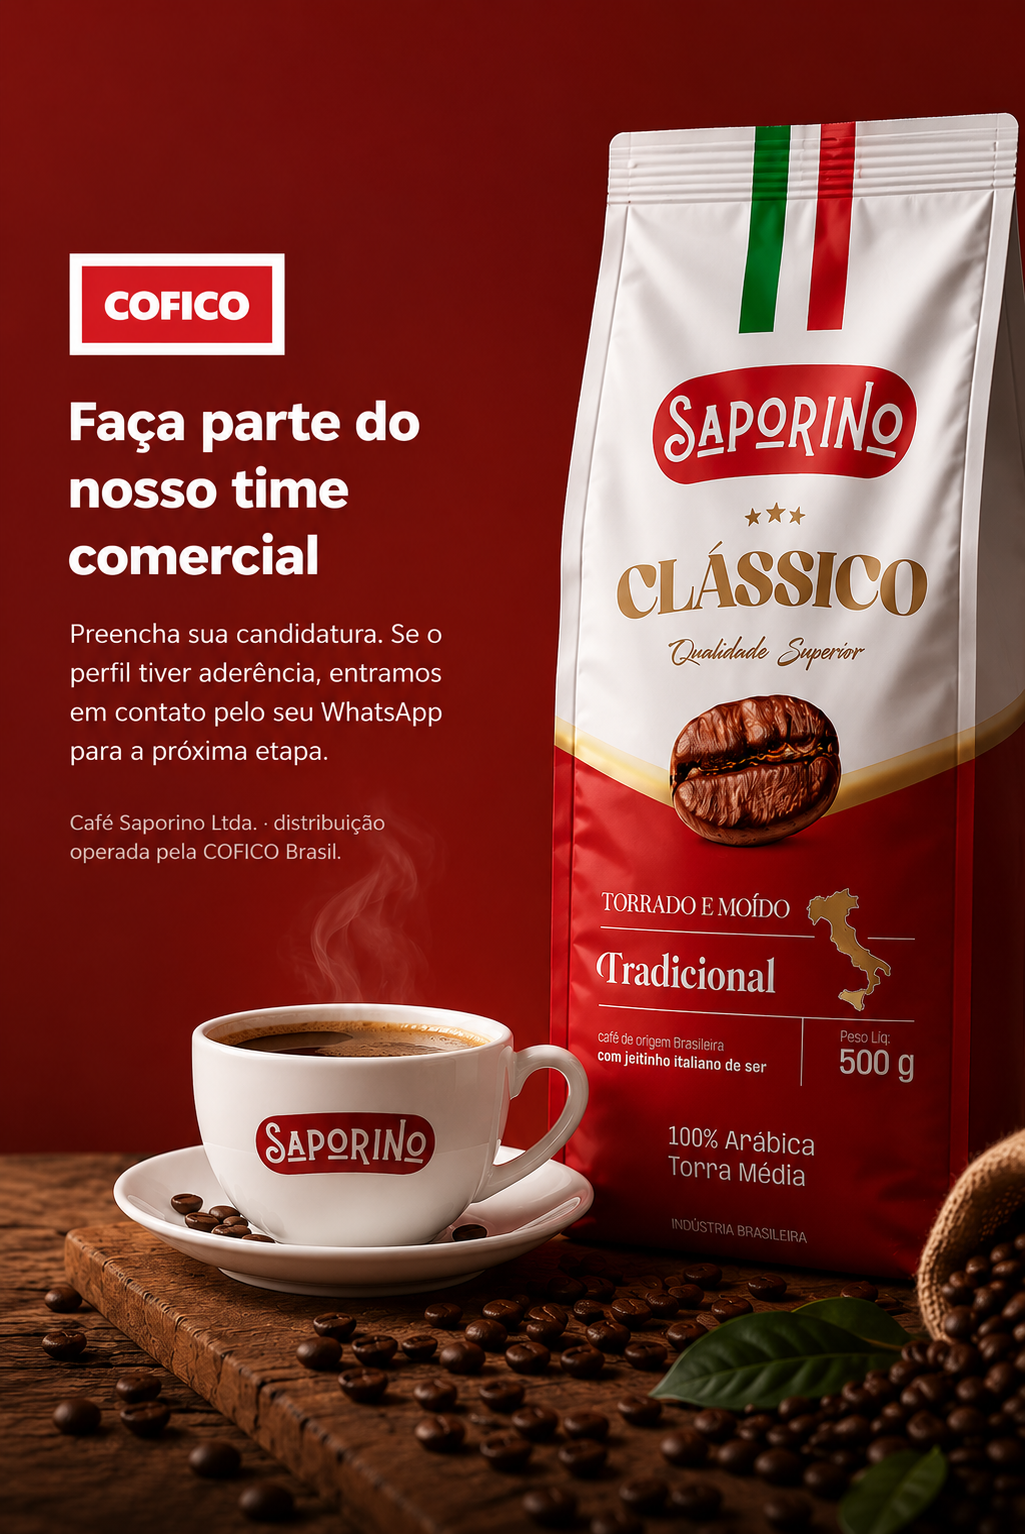
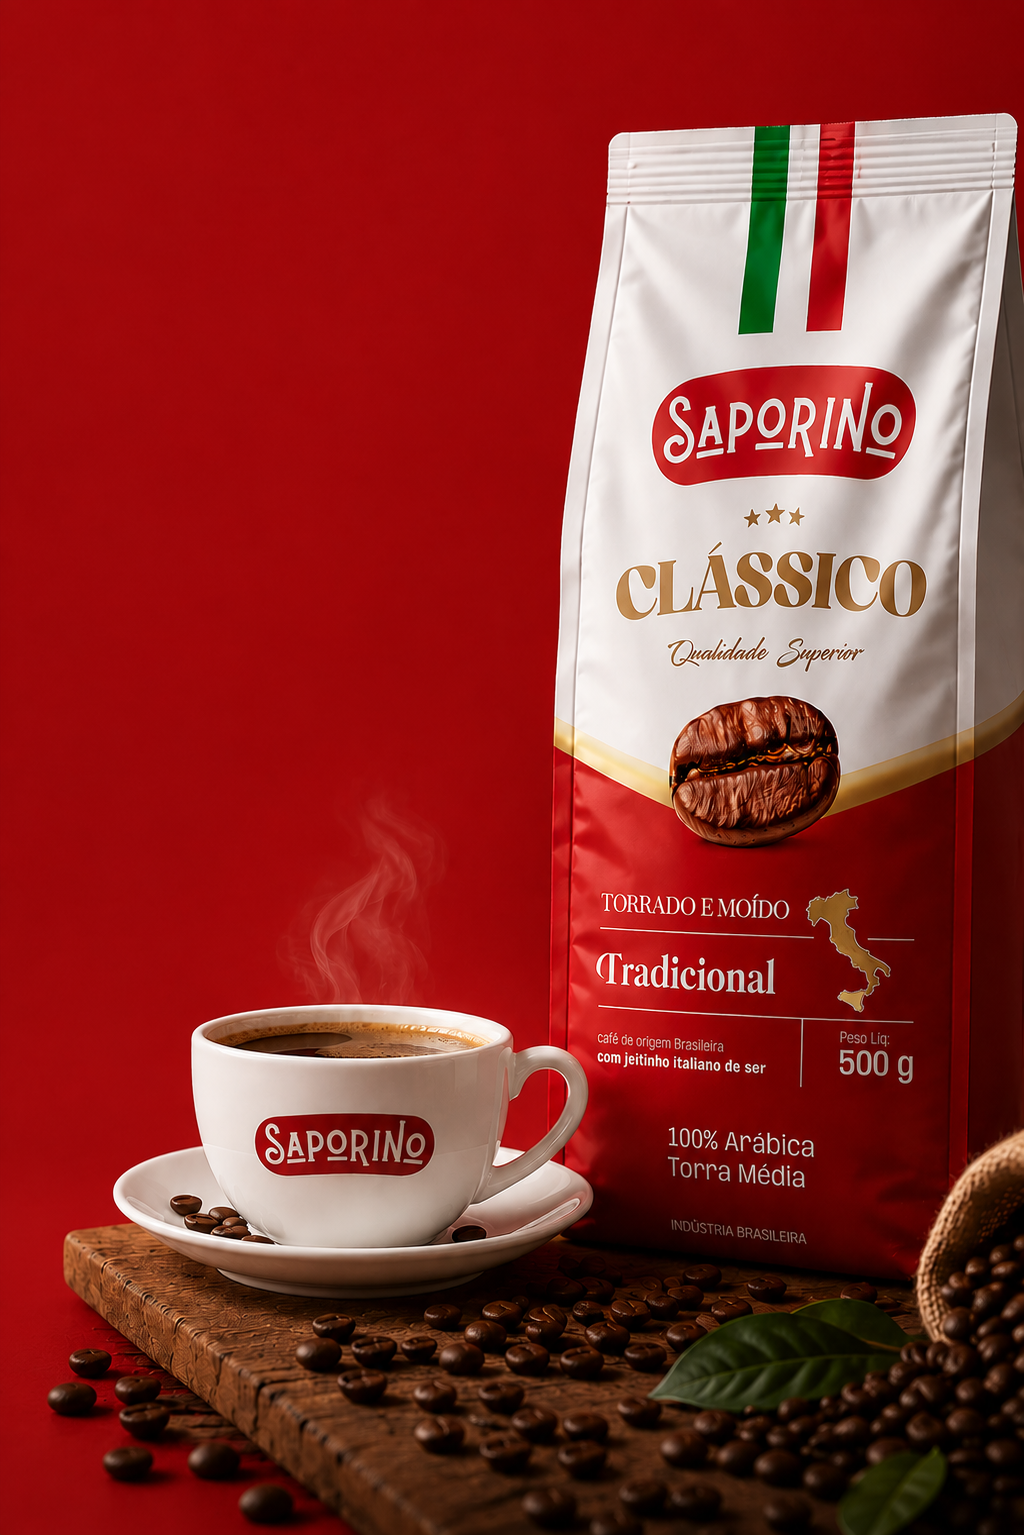
style(trabalhe-conosco): padroniza TUDO no token cofico-ink (fim do circo de vermelhos); tira selo do painel; foto de cafe limpa + texto por cima; token cofico-dark p/ hover

diff --git a/src/pages/PolicyPages.tsx b/src/pages/PolicyPages.tsx
@@ -708,7 +708,7 @@ export const CareersPage = () => {
         <p className="mt-4 max-w-2xl text-lg text-gray-600">
           Representação comercial autônoma no Estado de São Paulo, começando pela linha <strong className="text-gray-900">Café Saporino</strong>. Você atende o ponto de venda — a gente cuida da estrutura, do sistema e da logística.
         </p>
-        <a href="#candidatura" className="mt-7 inline-block rounded-full bg-cofico-ink px-8 py-3 font-semibold text-white transition-colors hover:bg-[#b81c1c]">Quero me candidatar</a>
+        <a href="#candidatura" className="mt-7 inline-block rounded-full bg-cofico-ink px-8 py-3 font-semibold text-white transition-colors hover:bg-cofico-dark">Quero me candidatar</a>
 
         <RoleMarquee />
 
@@ -719,13 +719,13 @@ export const CareersPage = () => {
           {VAGAS.map(v => (
             <div key={v.titulo} className="rounded-2xl border border-gray-200 p-6">
               <h3 className="text-lg font-bold text-gray-900">{v.titulo}</h3>
-              <p className="mt-0.5 text-sm font-semibold text-[#8B2214]">{v.resumo}</p>
+              <p className="mt-0.5 text-sm font-semibold text-cofico-ink">{v.resumo}</p>
               <p className="mt-3 text-sm leading-relaxed text-gray-600">{v.desc}</p>
               <p className="mt-4 text-xs font-semibold uppercase tracking-wide text-gray-400">Requisitos</p>
               <ul className="mt-2 space-y-1.5 text-sm text-gray-700">
-                {v.req.map(r => <li key={r} className="flex gap-2"><Check className="mt-0.5 h-4 w-4 flex-shrink-0 text-[#8B2214]" />{r}</li>)}
+                {v.req.map(r => <li key={r} className="flex gap-2"><Check className="mt-0.5 h-4 w-4 flex-shrink-0 text-cofico-ink" />{r}</li>)}
               </ul>
-              <a href="#candidatura" className="mt-5 inline-block text-sm font-semibold text-[#8B2214] hover:underline">Candidatar-se a esta vaga →</a>
+              <a href="#candidatura" className="mt-5 inline-block text-sm font-semibold text-cofico-ink hover:underline">Candidatar-se a esta vaga →</a>
             </div>
           ))}
         </div>
@@ -735,7 +735,7 @@ export const CareersPage = () => {
         <ul className="mt-4 flex flex-wrap gap-2">
           {REGIOES.map(r => (
             <li key={r} className="inline-flex items-center gap-1.5 rounded-full border border-gray-200 px-3 py-1.5 text-sm text-gray-700">
-              <MapPin className="h-3.5 w-3.5 text-[#8B2214]" />{r}
+              <MapPin className="h-3.5 w-3.5 text-cofico-ink" />{r}
             </li>
           ))}
         </ul>
@@ -743,8 +743,8 @@ export const CareersPage = () => {
         {/* O que oferecemos — Saporino */}
         <h2 className="mt-16 text-2xl font-bold text-gray-900">O que oferecemos</h2>
         <div className="mt-6 grid items-start gap-5 md:grid-cols-2">
-          <div className="rounded-2xl border border-gray-200 border-l-4 border-l-[#8B2214] p-6">
-            <p className="text-sm font-bold uppercase tracking-wide text-[#8B2214]">Comissão — Linha Café Saporino</p>
+          <div className="rounded-2xl border border-gray-200 border-l-4 border-l-cofico-ink p-6">
+            <p className="text-sm font-bold uppercase tracking-wide text-cofico-ink">Comissão — Linha Café Saporino</p>
             <p className="mt-2 text-3xl font-bold text-gray-900">5%<span className="text-base font-medium text-gray-500"> sobre vendas pagas</span></p>
             <ul className="mt-3 space-y-1.5 text-sm text-gray-700">
               <li>+ 0,5% adicional em pagamentos via PIX</li>
@@ -752,14 +752,14 @@ export const CareersPage = () => {
             </ul>
           </div>
           <ul className="space-y-2 text-sm text-gray-700">
-            {OFERECEMOS_LISTA.map(x => <li key={x} className="flex gap-2"><Check className="mt-0.5 h-4 w-4 flex-shrink-0 text-[#8B2214]" />{x}</li>)}
+            {OFERECEMOS_LISTA.map(x => <li key={x} className="flex gap-2"><Check className="mt-0.5 h-4 w-4 flex-shrink-0 text-cofico-ink" />{x}</li>)}
           </ul>
         </div>
 
         {/* Perfil */}
         <h2 className="mt-16 text-2xl font-bold text-gray-900">Perfil procurado</h2>
         <ul className="mt-4 grid gap-2 text-gray-700 sm:grid-cols-2">
-          {PERFIL.map(x => <li key={x} className="flex gap-2 text-sm"><Check className="mt-0.5 h-5 w-5 flex-shrink-0 text-[#8B2214]" />{x}</li>)}
+          {PERFIL.map(x => <li key={x} className="flex gap-2 text-sm"><Check className="mt-0.5 h-5 w-5 flex-shrink-0 text-cofico-ink" />{x}</li>)}
         </ul>
 
         {/* Como funciona */}
@@ -767,7 +767,7 @@ export const CareersPage = () => {
         <ol className="mt-5 grid gap-4 sm:grid-cols-2 lg:grid-cols-5">
           {ETAPAS.map((e, i) => (
             <li key={e} className="rounded-xl border border-gray-200 p-4">
-              <span className="flex h-8 w-8 items-center justify-center rounded-full bg-[#8B2214] text-sm font-bold text-white">{i + 1}</span>
+              <span className="flex h-8 w-8 items-center justify-center rounded-full bg-cofico-ink text-sm font-bold text-white">{i + 1}</span>
               <p className="mt-2 text-sm font-medium text-gray-800">{e}</p>
             </li>
           ))}
@@ -775,9 +775,15 @@ export const CareersPage = () => {
 
         {/* Candidatura */}
         <div id="candidatura" className="mt-16 grid scroll-mt-24 overflow-hidden rounded-2xl border border-gray-200 md:grid-cols-2">
-          <div className="relative min-h-[460px] bg-[#6d1a10] md:min-h-0">
-            <img src="/carreiras/candidatura-cafe.png" alt="Faça parte do nosso time comercial da Café Saporino, distribuída pela COFICO Brasil"
-              className="absolute inset-0 h-full w-full object-cover object-left" />
+          <div className="relative min-h-[440px] overflow-hidden bg-[#c1181a] md:min-h-0">
+            <img src="/carreiras/candidatura-cafe.png" alt="Café Saporino Clássico"
+              className="absolute inset-0 h-full w-full object-cover object-center" />
+            <div className="absolute inset-0 bg-gradient-to-r from-black/40 via-black/10 to-transparent" />
+            <div className="relative p-8 text-white">
+              <h3 className="max-w-[14ch] text-2xl font-bold leading-tight drop-shadow">Faça parte do nosso time comercial</h3>
+              <p className="mt-3 max-w-[24ch] text-sm text-white/90 drop-shadow">Preencha sua candidatura. Se o perfil tiver aderência, entramos em contato pelo seu WhatsApp para a próxima etapa.</p>
+              <p className="mt-6 max-w-[24ch] text-xs text-white/75 drop-shadow">Café Saporino Ltda. · distribuição operada pela COFICO Brasil.</p>
+            </div>
           </div>
           <div className="p-8">
             <RepApplicationForm />
@@ -787,7 +793,7 @@ export const CareersPage = () => {
         {/* Outras áreas */}
         <p className="mt-12 text-sm text-gray-500">
           Para outras áreas (produção, administrativo, atendimento), envie seu currículo para{' '}
-          <a href="mailto:trabalheconosco@cafesaporino.com.br" className="font-semibold text-[#8B2214] hover:underline">trabalheconosco@cafesaporino.com.br</a>.
+          <a href="mailto:trabalheconosco@cafesaporino.com.br" className="font-semibold text-cofico-ink hover:underline">trabalheconosco@cafesaporino.com.br</a>.
         </p>
       </div>
     </div>

diff --git a/src/components/RepApplicationForm.tsx b/src/components/RepApplicationForm.tsx
@@ -57,7 +57,7 @@ export default function RepApplicationForm() {
 
   const inp = (k: keyof typeof f, ph: string, type = 'text') => (
     <input type={type} value={f[k]} onChange={e => setF({ ...f, [k]: e.target.value })} placeholder={ph}
-      className="w-full h-11 px-3 text-sm border border-gray-300 rounded-lg focus:ring-2 focus:ring-[#8B2214] focus:border-transparent" />
+      className="w-full h-11 px-3 text-sm border border-gray-300 rounded-lg focus:ring-2 focus:ring-cofico-ink focus:border-transparent" />
   );
 
   return (
@@ -69,7 +69,7 @@ export default function RepApplicationForm() {
       <div>
         <label className="block text-xs font-semibold text-gray-600 mb-1.5">Anos de experiência com café</label>
         <select value={f.experiencia} onChange={e => setF({ ...f, experiencia: e.target.value })}
-          className="w-full h-11 px-3 text-sm border border-gray-300 rounded-lg bg-white focus:ring-2 focus:ring-[#8B2214]">
+          className="w-full h-11 px-3 text-sm border border-gray-300 rounded-lg bg-white focus:ring-2 focus:ring-cofico-ink">
           <option value="">Selecione…</option>
           {EXPERIENCIA.map(x => <option key={x} value={x}>{x}</option>)}
         </select>
@@ -80,7 +80,7 @@ export default function RepApplicationForm() {
         <div className="flex gap-2">
           {[['sim', 'Sim'], ['nao', 'Não']].map(([v, l]) => (
             <button key={v} type="button" onClick={() => setF({ ...f, carteira_ativa: v })}
-              className={`px-4 py-2 rounded-lg text-sm font-semibold border ${f.carteira_ativa === v ? 'bg-[#8B2214] text-white border-[#8B2214]' : 'bg-white text-gray-600 border-gray-300 hover:border-gray-400'}`}>{l}</button>
+              className={`px-4 py-2 rounded-lg text-sm font-semibold border ${f.carteira_ativa === v ? 'bg-cofico-ink text-white border-cofico-ink' : 'bg-white text-gray-600 border-gray-300 hover:border-gray-400'}`}>{l}</button>
           ))}
         </div>
       </div>
@@ -92,7 +92,7 @@ export default function RepApplicationForm() {
         <div className="flex flex-wrap gap-1.5">
           {CANAIS.map(c => (
             <button key={c} type="button" onClick={() => toggleCanal(c)}
-              className={`px-3 py-1.5 rounded-full text-xs font-semibold border transition-colors ${canais.includes(c) ? 'bg-[#8B2214] text-white border-[#8B2214]' : 'bg-white text-gray-600 border-gray-300 hover:border-gray-400'}`}>{c}</button>
+              className={`px-3 py-1.5 rounded-full text-xs font-semibold border transition-colors ${canais.includes(c) ? 'bg-cofico-ink text-white border-cofico-ink' : 'bg-white text-gray-600 border-gray-300 hover:border-gray-400'}`}>{c}</button>
           ))}
         </div>
       </div>
@@ -100,7 +100,7 @@ export default function RepApplicationForm() {
       <div>
         <label className="block text-xs font-semibold text-gray-600 mb-1.5">Situação cadastral</label>
         <select value={f.situacao_cadastral} onChange={e => setF({ ...f, situacao_cadastral: e.target.value })}
-          className="w-full h-11 px-3 text-sm border border-gray-300 rounded-lg bg-white focus:ring-2 focus:ring-[#8B2214]">
+          className="w-full h-11 px-3 text-sm border border-gray-300 rounded-lg bg-white focus:ring-2 focus:ring-cofico-ink">
           <option value="">Selecione…</option>
           {SITUACAO.map(x => <option key={x} value={x}>{x}</option>)}
         </select>
@@ -109,13 +109,13 @@ export default function RepApplicationForm() {
       {inp('marcas_atuais', 'Marcas que representa atualmente (opcional)')}
 
       <label className="flex items-start gap-2 text-xs text-gray-600 bg-[#f8f7f5] border border-[#ddd0cc] rounded-lg p-3">
-        <input type="checkbox" checked={ciente} onChange={e => setCiente(e.target.checked)} className="mt-0.5 accent-[#8B2214]" />
+        <input type="checkbox" checked={ciente} onChange={e => setCiente(e.target.checked)} className="mt-0.5 accent-cofico-ink" />
         <span>Estou ciente de que a representação é <strong>autônoma, com contrato formal</strong>, e que <strong>não há vínculo CLT, salário fixo nem ajuda de custo</strong> — a remuneração é por comissão sobre vendas. *</span>
       </label>
 
       {err && <p className="text-sm text-red-600">{err}</p>}
       <button type="submit" disabled={saving}
-        className="w-full h-12 rounded-full bg-cofico-ink hover:bg-[#b81c1c] text-white font-semibold text-sm disabled:opacity-60 flex items-center justify-center gap-2">
+        className="w-full h-12 rounded-full bg-cofico-ink hover:bg-cofico-dark text-white font-semibold text-sm disabled:opacity-60 flex items-center justify-center gap-2">
         {saving ? <><Loader2 className="w-4 h-4 animate-spin" /> Enviando…</> : 'Enviar candidatura'}
       </button>
     </form>

diff --git a/tailwind.config.js b/tailwind.config.js
@@ -8,7 +8,7 @@ export default {
         saporino: { DEFAULT: '#8B2214', deep: '#8a1f0c', alt: '#a4240e' },
         // cofico.ink para texto/links/botões pequenos (#FF3131 sobre branco reprova WCAG AA);
         // cofico.DEFAULT só para superfícies/áreas grandes.
-        cofico: { DEFAULT: '#FF3131', ink: '#E02020' },
+        cofico: { DEFAULT: '#FF3131', ink: '#E02020', dark: '#B81C1C' },
       },
     },
   },
